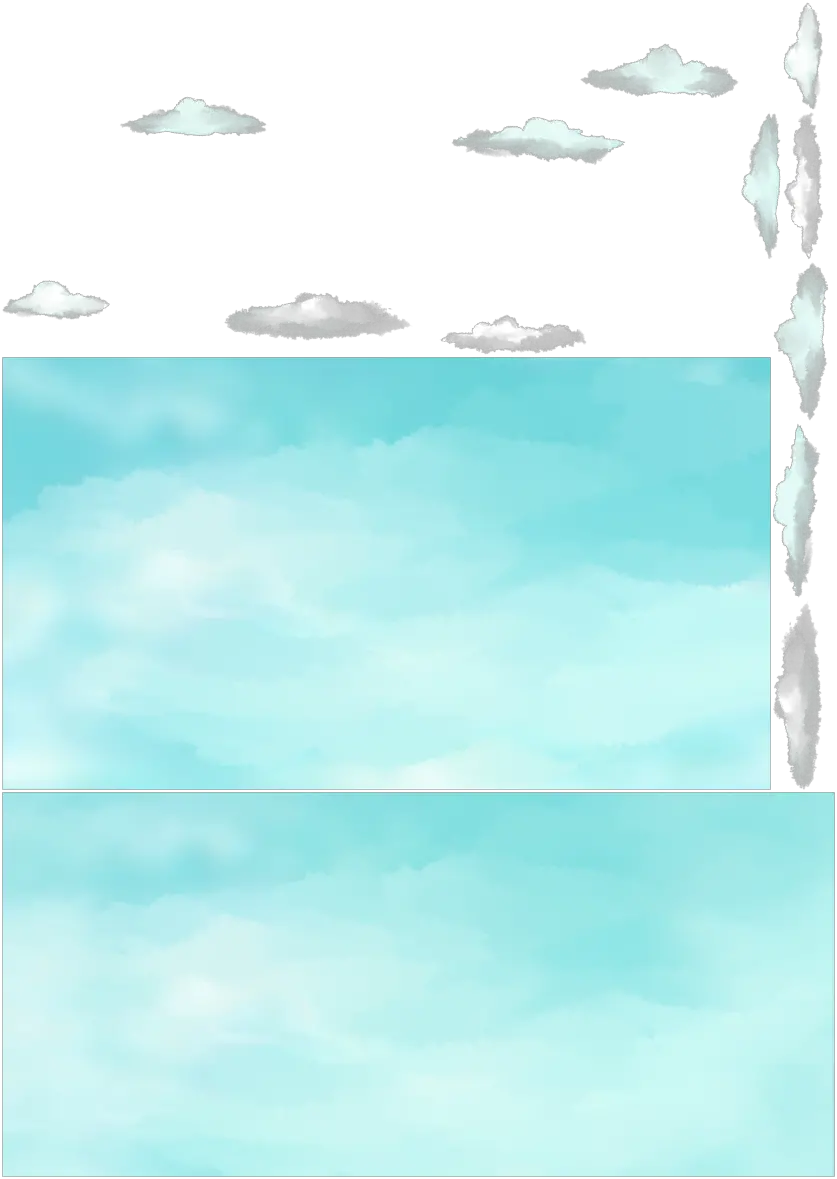
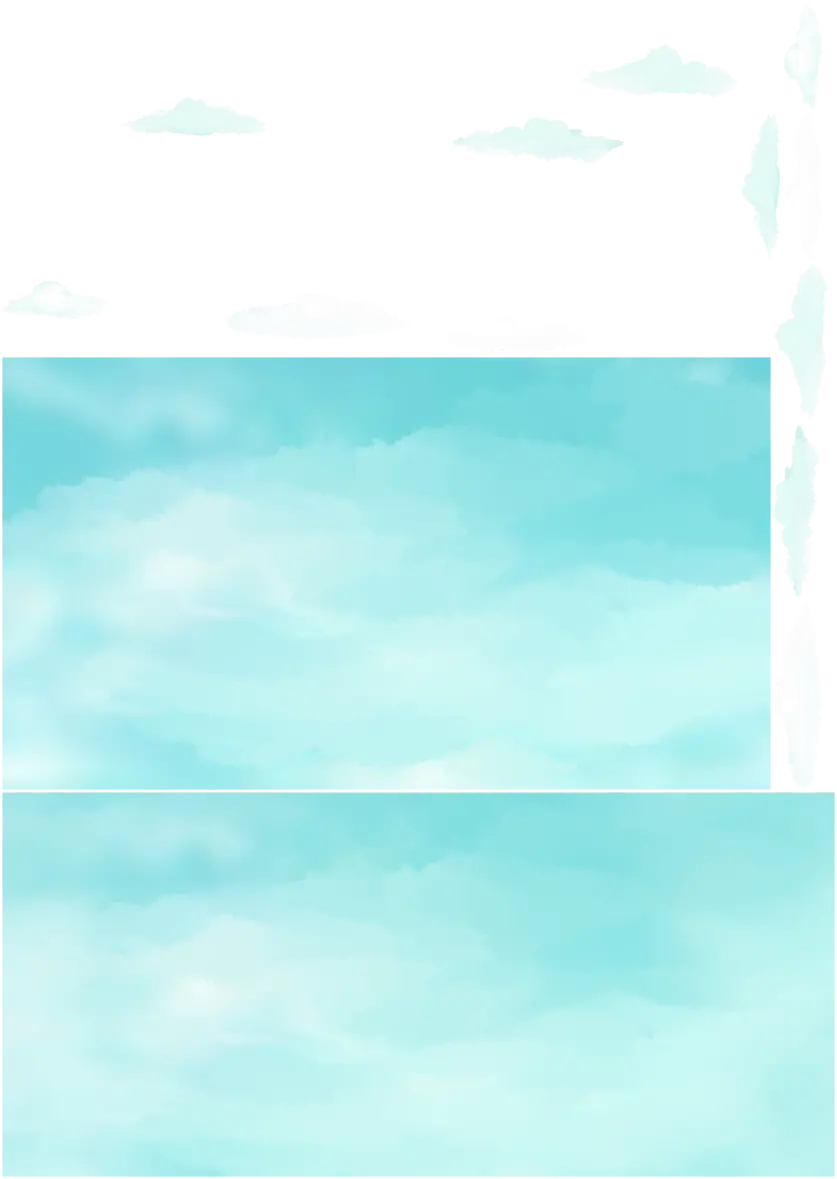
new sky spine

diff --git a/client/scenes/battle/HexMapOverlay.ts b/client/scenes/battle/HexMapOverlay.ts
@@ -37,6 +37,12 @@ export function HexMapOverlay(): PixiContainer {
     hoveredCharacterUid.set(null)
     loopSong('hexMapMusicHooligansBluff')
 
+    const spineBg = Spine({
+        name: 'hooligansBluffHexMapBg',
+        animation: 'animation',
+        scale: 1.2,
+    })
+
     return Container(
         {},
         Sprite({
@@ -49,10 +55,7 @@ export function HexMapOverlay(): PixiContainer {
             },
             defaultCursor: true,
         }),
-        Spine({
-            name: 'hooligansBluffHexMapBg',
-            animation: 'animation',
-        }),
+        Adjust(spineBg, { y: BASE_HEIGHT / 2 - spineBg.height * 0.52 }),
         // VideoBackground({
         //     name: 'mapBg',
         //     src: 'mapBg',

diff --git a/client/elementsUtil/myspine.ts b/client/elementsUtil/myspine.ts
@@ -22,8 +22,11 @@ export function Spine<Name extends SpineAsset>(props: {
     onSpineEvent?: (e: string) => void
     onDestroy?: Callback[]
     isPc?: boolean
+    scale?: number
 }): PixiSpine {
     const spine = new PixiSpine(spineData(props.name))
+
+    if (props.scale != null) spine.scale.set(props.scale, props.scale)
 
     if (haveEvilSkins[props.name.replace('Spine', '') as CharacterId]) {
         const skinNames = spine.skeleton.data.skins.map(skin => skin.name)